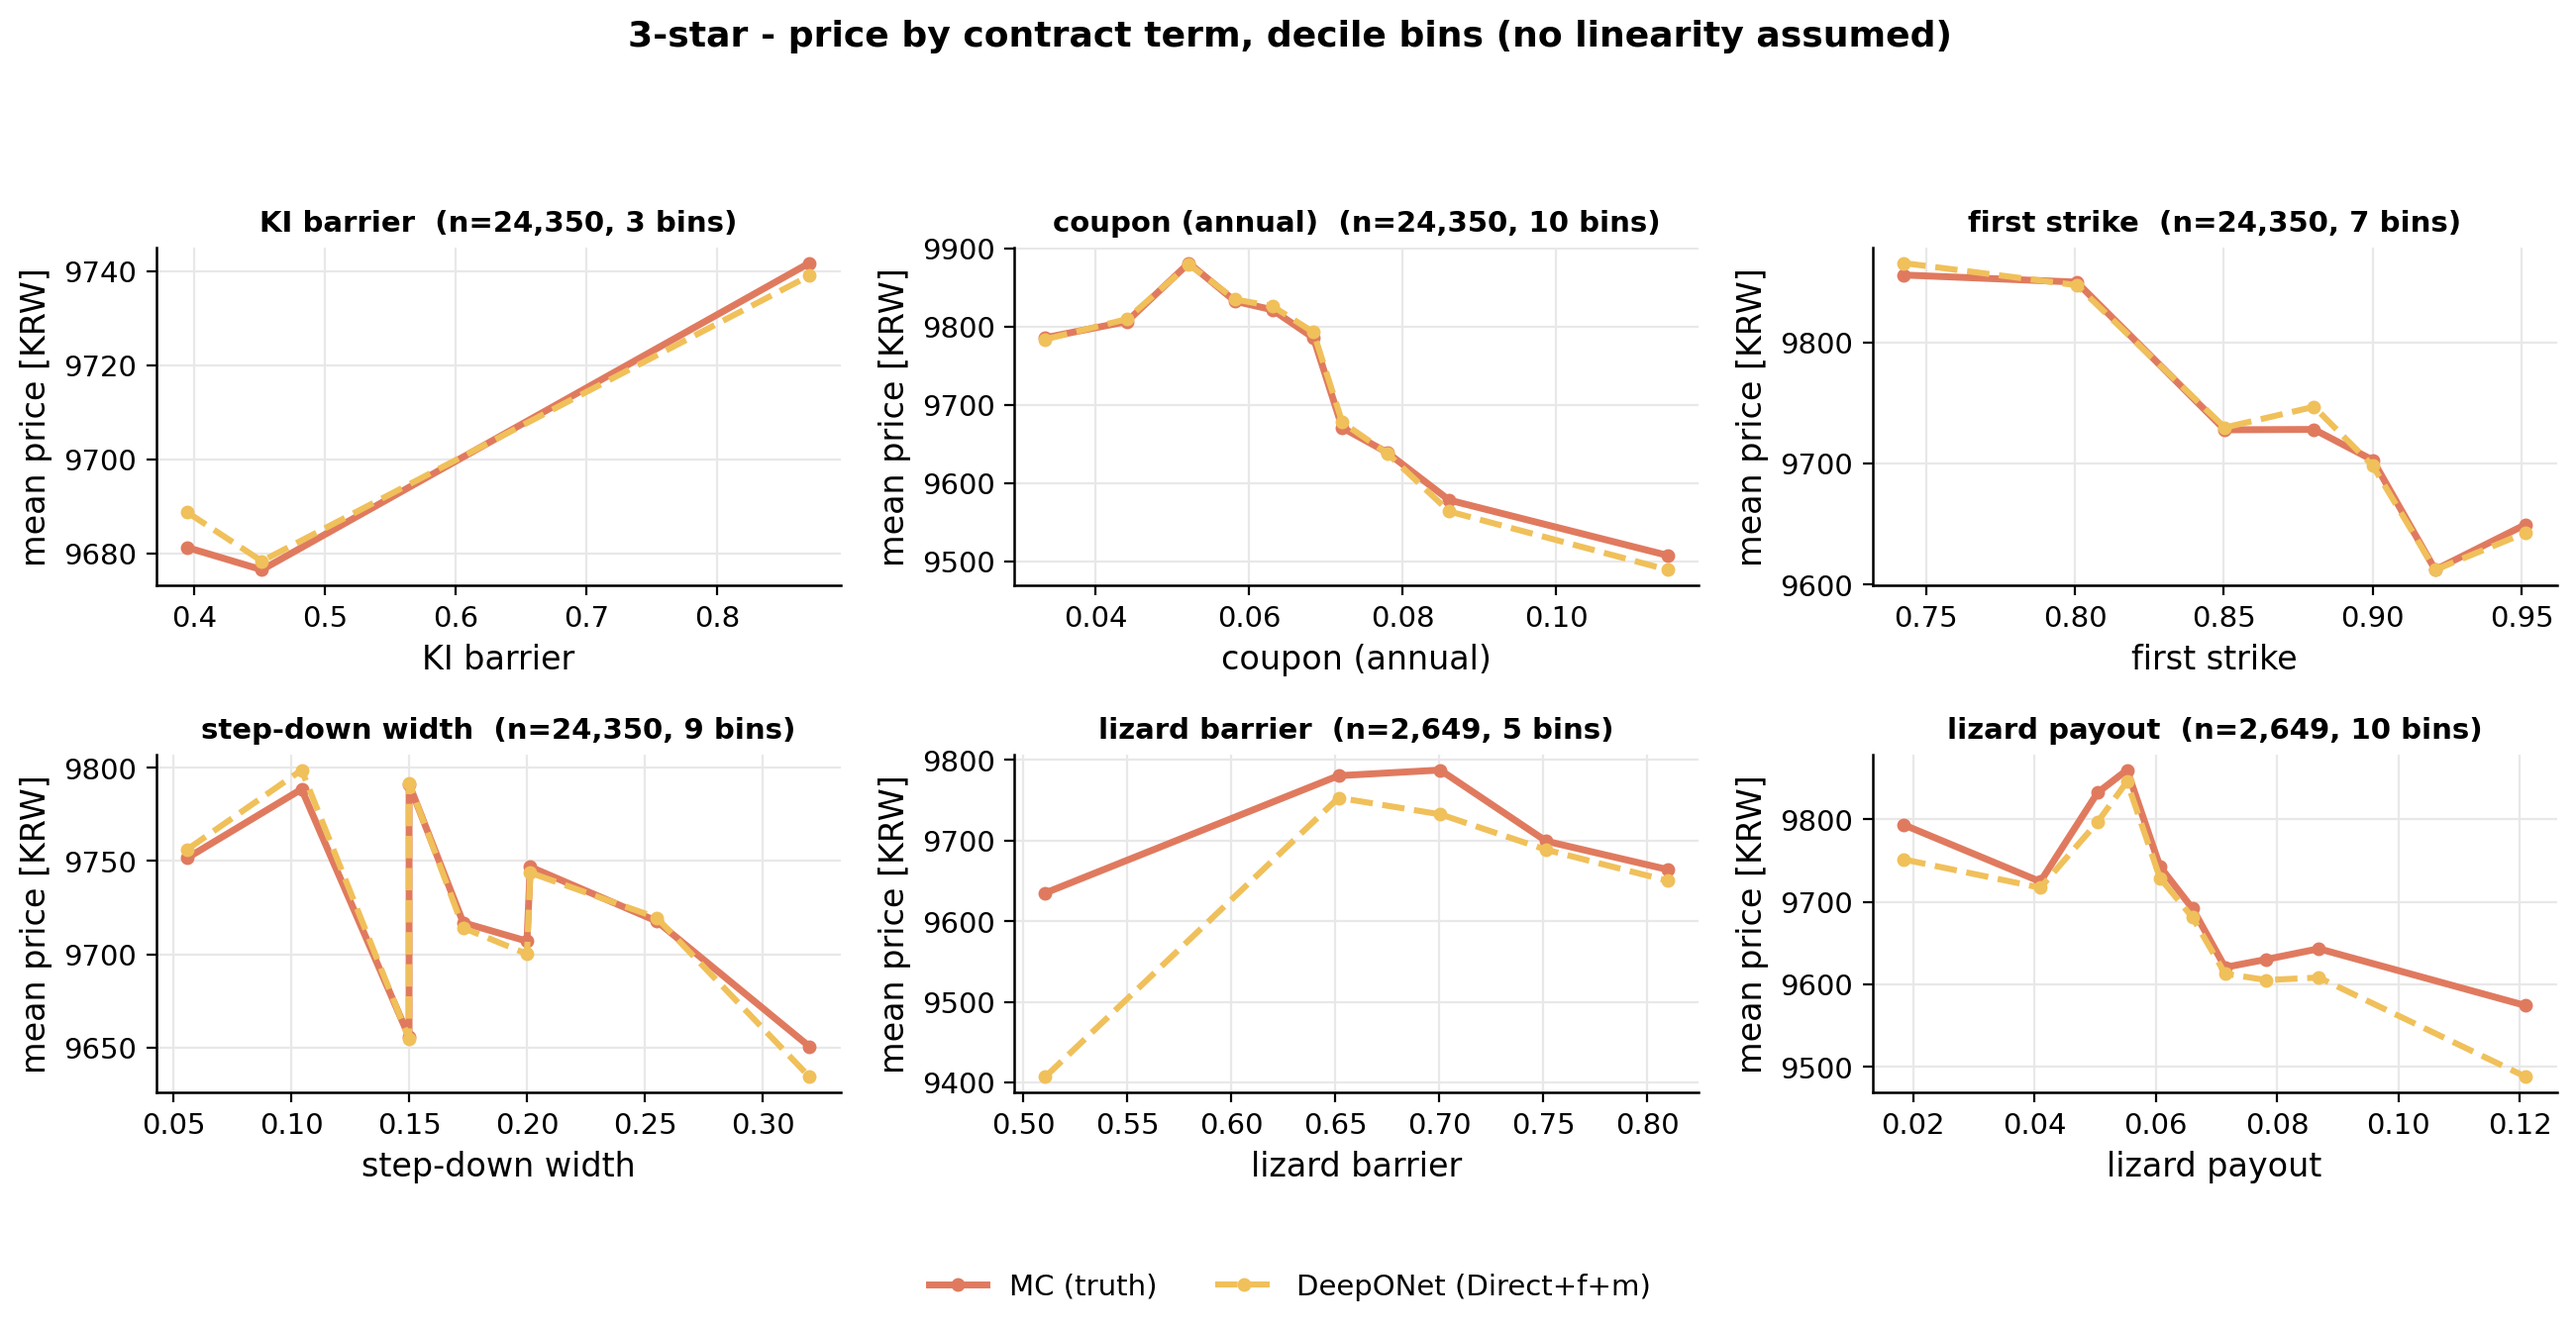
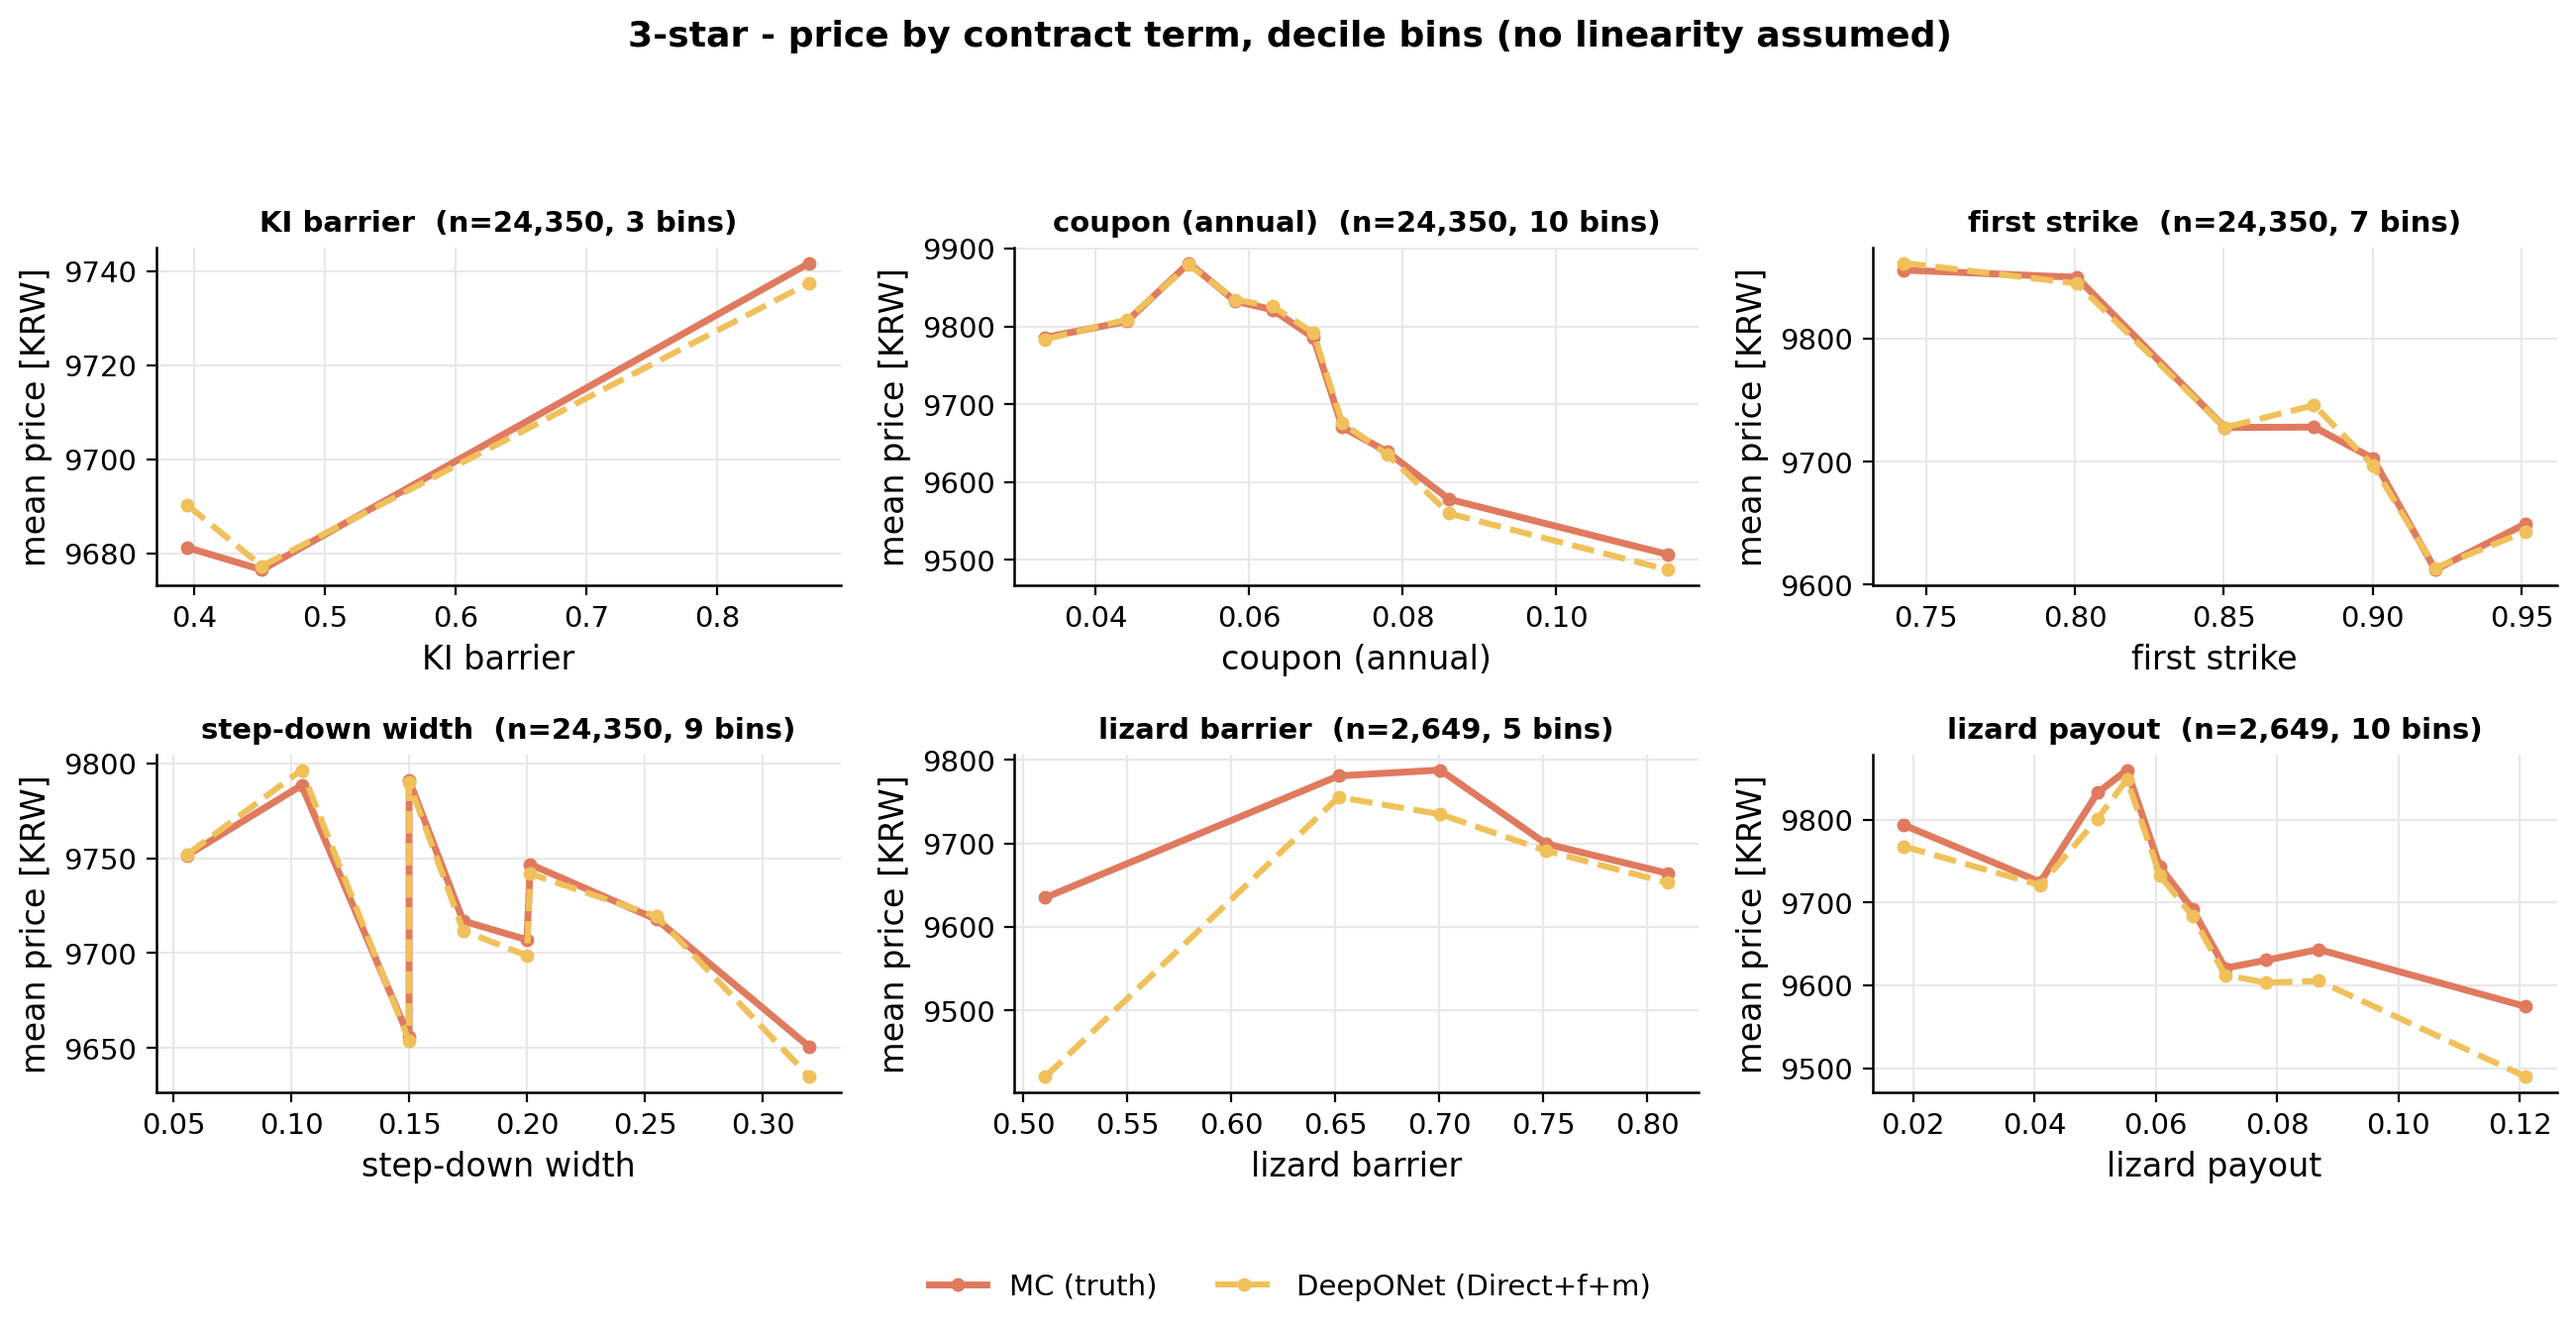
2026-10-26

diff --git a/generate/build_nb_training.py b/generate/build_nb_training.py
@@ -105,7 +105,7 @@ from module import star as ST
 from module import train as TR
 
 SEEDS = range(5)                 # 시드 수. 빠르게 확인하려면 range(1)
-MONO = dict(fixed_w=1.0, kinds=["lz_pmt"], margin_krw=8.0)   # 단조손실 설정
+MONO = dict(fixed_w=1.0, kinds=["lz_pmt"], margin_krw=0.0)   # 단조손실 설정 (margin 0 = 부호만)
 FACE = 10000
 MDIR = fm.RESULT / "models"; MDIR.mkdir(parents=True, exist_ok=True)
 

diff --git a/README.md b/README.md
@@ -40,11 +40,16 @@
 
 | | R² | MAPE | MAE | RMSE |
 |---|---:|---:|---:|---:|
-| **DeepONet** (Direct + V_base + 단조) | **0.9706** ± 0.0011 | **0.384%** | 37.1원 | 62.2원 |
+| **DeepONet** (Direct + V_base + 단조) | **0.9690** ± 0.0017 | **0.397%** | 38.4원 | 63.8원 |
+| DeepONet (Direct + 단조) — 기존 모형 | 0.9525 ± 0.0034 | 0.508% | 48.8원 | 78.9원 |
 | XGBoost (같은 입력) | 0.9098 ± 0.0013 | 0.724% | 69.5원 | 109.0원 |
 
-**같은 입력에서 아키텍처만 바꾼 비교다.** 두 모형 모두 곡선 u0-9 + vol·corr + 전체 계약을
-받는다. R² 로 6.1포인트, 상대오차로 **1.9배** 차이가 난다.
+**두 가지 비교가 한 표에 있다.** 둘째 행과 첫째 행의 차이는 **V_base 투입 효과**다
+(입력에 프록시 한 열을 더한 것뿐, 아키텍처는 같다) — 상대오차 0.508% → 0.397%.
+첫째 행과 셋째 행의 차이는 **아키텍처 효과**다. 두 모형 모두 곡선 u0-9 + vol·corr +
+전체 계약을 받는 같은 입력이고, R² 로 5.9포인트 · 상대오차로 **1.8배** 벌어진다.
+
+위 그림은 이 중 **기준 모형과 표형 벤치마크 둘만** 싣는다 (헤드라인은 둘로 고정한다).
 
 **기울기도 같이 본다.** 수준 지표만으로는 부족하다. 계약조건을 흔들었을 때 가격이
 MC 참값과 같은 기울기로 반응하는지를 따로 잰다.
@@ -109,10 +114,10 @@ MC 참값과 같은 기울기로 반응하는지를 따로 잰다.
 
 | 모집단 | n | R² | MAPE |
 |---|---:|---:|---:|
-| 3스타 (위 그림) | 24,350 | 0.9706 ± 0.0011 | 0.384% |
-| 전체 (1·2·3스타) | 29,916 | 0.9739 ± 0.0006 | 0.384% |
+| 3스타 (위 그림) | 24,350 | 0.9690 ± 0.0017 | 0.397% |
+| 전체 (1·2·3스타) | 29,916 | 0.9728 ± 0.0010 | 0.393% |
 
-`ball_d`(전체 0.9554)와 **같은 타깃·같은 손실**이고, 차이는 입력에 `V_base` 한 열을
+`ball_d`(전체 0.9527)와 **같은 타깃·같은 손실**이고, 차이는 입력에 `V_base` 한 열을
 더한 것뿐입니다. 아래는 그 입력을 하나씩 뜯어본 것입니다.
 
 ```
@@ -228,10 +233,10 @@ V_base = Σ_j (C_{j-1} − C_j)(1 + pmt_j) · DF(θ_j)
 `V_base` 를 trunk 에 넣으면 계약 쪽에서도 배당이 반영된 기준선을
 보게 되어, 모형이 "구조를 처음부터" 배울 필요가 줄어듭니다.
 
-실측으로 `ball_d` 0.9554 → `ball_dm` 0.9739 입니다.
+실측으로 `ball_d` 0.9527 → `ball_dm` 0.9728 입니다.
 
 > `V_base` 는 **입력(피처)** 으로만 쓰고 타깃에서 빼지 않습니다.
-> 빼는 쪽이 `Resid+f+m`(0.9788)이고, 그건 Direct 계열이 아닙니다.
+> 빼는 쪽이 `Resid+f+m`(0.9796)이고, 그건 Direct 계열이 아닙니다.
 
 ---
 
@@ -292,24 +297,53 @@ mono_loss = viol.sum() / 적용마스크.sum()
 #### 기준 모형의 설정
 
 ```python
-MONO = dict(fixed_w=1.0, kinds=["lz_pmt"], margin_krw=8.0)
+MONO = dict(fixed_w=1.0, kinds=["lz_pmt"], margin_krw=0.0)
 ```
 
 | 항목 | 값 | 이유 |
 |---|---|---|
 | `kinds` | `["lz_pmt"]` **하나만** | 기준 모형이 유일하게 위반하던 항목 |
-| `margin_krw` | **8.0원** | 부호만이 아니라 **최소 반응 크기**를 요구 |
+| `margin_krw` | **0.0원** | **부호만** 본다. 최소 반응 크기를 요구하지 않는다 |
 | `fixed_w` | **1.0** 고정 | 자동 산정은 `ml→0` 에서 폭발 |
 
 **왜 다섯 개를 다 걸지 않는가.** 나머지 넷은 손실 없이도 부호가 맞았습니다.
 맞는 것에 손실을 걸면 데이터손실과 경쟁만 시킬 뿐 얻는 것이 없습니다.
 **위반하는 항목에만** 겁니다.
 
-**`margin_krw` 가 하는 일.** 0이면 "부호만 맞으면 통과" 라서
-리자드 지급률을 1.25배 올려도 가격이 0.01원만 올라가면 넘어갑니다.
-8원을 요구하면 **반응의 크기**까지 강제합니다 — 기울기를
-MC 참값에 맞추려는 장치이고, 그래서 기울기 지표를 따로 봅니다
-(`result/statistics/xsec_slope.csv`).
+**`margin_krw` 를 0 으로 둔 이유.** `margin > 0` 은 부호뿐 아니라
+**최소 반응 크기**까지 요구합니다. 기울기를 MC 참값에 맞추려는 장치처럼 보이지만,
+요구치가 참값보다 크면 **구조적으로 과보정**합니다.
+
+학습 섭동은 리자드 지급률 ×1.25(= +0.25 배수)이고, 섭동 격자에서 잰 상품별 실제
+MC 반응은 이렇습니다.
+
+| 스타 | 상품별 반응 [원] | 8원 미만 |
+|---|---|---:|
+| 1★ | 2.3 · 3.3 · 6.4 · 6.6 · 8.0 · 10.8 | **5/6** |
+| 2★ | 3.0 · 5.2 · 5.2 · 5.4 · 12.5 · 28.2 | **4/6** |
+| 3★ | 1.3 · 21.0 · 22.3 · 26.1 · 29.3 · 46.9 | 1/6 |
+
+1·2스타는 참 반응이 대부분 8원보다 작습니다. 종전 설정(`margin_krw=8.0`)은
+참값이 6원인 상품에도 8원을 요구해 리자드 지급률 기울기를 **2배 넘게** 부풀렸습니다
+(1스타 배수 2.13). 3스타는 반응이 21~47원이라 hinge 가 거의 켜지지 않아 8이든 0이든
+차이가 없었고 — **8원은 3스타만 보고 고른 값**이었습니다.
+
+0 으로 바꾼 결과 (5시드 · 같은 폴드 · margin 만 변경):
+
+| 지표 | margin 8원 | **margin 0원** |
+|---|---:|---:|
+| 리자드 지급률 기울기 배수, 1★ | 2.13 | **0.93** |
+| 리자드 지급률 기울기 배수, 2★ | 2.16 | **1.13** |
+| 평균 \|1−배수\| (1·2·3★ 평균) | 0.246 | **0.125** |
+| R² (ALL) | 0.9739 ± .0006 | 0.9728 ± .0010 |
+| MAPE (ALL) | 0.384% | 0.393% |
+
+**수준은 사실상 무차별이고 기울기만 좋아집니다.** 나머지 다섯 요인(KI 배리어·쿠폰·
+행사가·스텝다운·리자드 배리어)은 소수점 둘째 자리까지 거의 안 움직입니다 —
+단조손실이 `lz_pmt` 하나에만 걸려 있으니 당연하고, 실험이 깨끗하다는 방증이기도 합니다.
+
+> ⚠ 섭동 격자가 스타당 상품 6개뿐이라 **방향은 분명하되 0.93 이 1.00 과 유의하게
+> 다른지는 가릴 수 없습니다.** 확정하려면 OOS 전수 횡단면으로 다시 재야 합니다.
 
 **MC 라벨을 더 만들지 않습니다.** 흔든 입력에 대한 MC 참값은 없습니다.
 "부호가 뒤집히면 안 된다" 는 사전 지식만 쓰므로 추가 계산이 없습니다.
